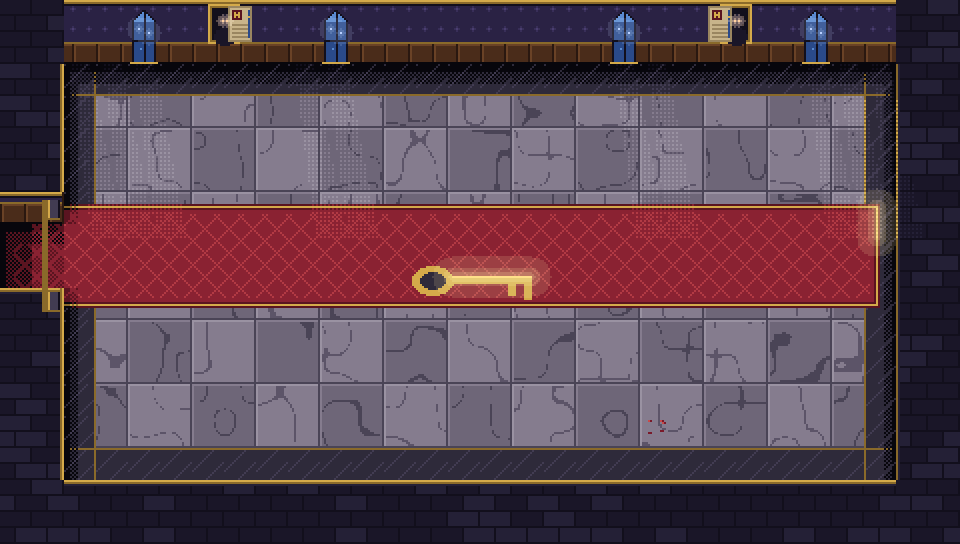
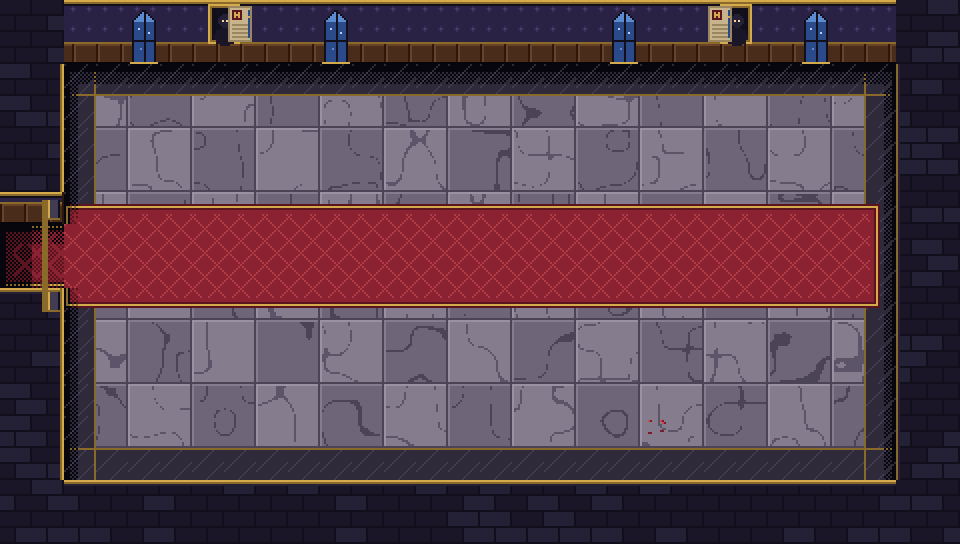
Château : plus de motifs au sol ni d'horloges, tapis croisés, sans halos
- Retire le cadran romain, les sabliers et la clé incrustés au sol
- Les grappes de cases solides du frisbee deviennent des anges voilés
- Tapis : une seule forme en croix, bordure continue au croisement
- Retire les puits de lune tramés et les halos en points

Claude-Session: https://claude.ai/code/session_01KgRZeWCvSQVkTEWoxAiCQs

diff --git a/tools/donjon-peint/chateau.px.js b/tools/donjon-peint/chateau.px.js
@@ -47,14 +47,18 @@ function room(name, MAP, decorFloor, decorTop, opts = {}) {
       if (border) { if (!isWall(tx, ty + 1) && isWall(tx, ty - 1)) c.hline(tx * TS, ty * TS + 15, TS, "Y"); if (!isWall(tx, ty - 1) && isWall(tx, ty + 1)) c.hline(tx * TS, ty * TS, TS, "Y"); if (!isWall(tx + 1, ty) && isWall(tx - 1, ty)) c.vline(tx * TS + 15, ty * TS, TS, "Y"); if (!isWall(tx - 1, ty) && isWall(tx + 1, ty)) c.vline(tx * TS, ty * TS, TS, "Y") }
     })),
     // tapis cramoisi à bordure d'or entre les portes (calculé sur le sol uniquement)
-    layer("tapis", c => (opts.carpets || []).forEach(([x0, y0, x1, y1]) => {
-      for (let y = y0; y < y1; y++) for (let x = x0; x < x1; x++) {
-        if (!isFloor(x >> 4, y >> 4)) continue
-        const ex = Math.min(x - x0, x1 - 1 - x), ey = Math.min(y - y0, y1 - 1 - y), e = Math.min(ex, ey)
+    layer("tapis", c => {
+      const rects = opts.carpets || []; if (!rects.length) return
+      const inC = (x, y) => isFloor(x >> 4, y >> 4) && rects.some(([x0, y0, x1, y1]) => x >= x0 && x < x1 && y >= y0 && y < y1)
+      const edge = (x, y) => { for (let d = 0; d < 6; d++) if (!inC(x + d + 1, y) || !inC(x - d - 1, y) || !inC(x, y + d + 1) || !inC(x, y - d - 1)) return d; return 6 }
+      for (let y = 0; y < CH * TS; y++) for (let x = 0; x < CW * TS; x++) {
+        if (!inC(x, y)) continue
+        const e = edge(x, y), open = x <= 1 || x >= CW * TS - 2 || y <= 1 || y >= CH * TS - 2
         let k = e === 0 ? "R" : e === 1 ? "y" : e === 2 ? "R" : ((x + y) % 12 === 0 || (x - y + 1200) % 12 === 0) && e > 4 ? "e" : "r"
+        if (open && e < 3) k = "r"
         c.px(x, y, k)
       }
-    })),
+    }),
     layer("decor_sol", c => decorFloor && decorFloor(c, S)),
     // gouffres : rebord de marbre brisé au-dessus du noir
     layer("vide", c => each((tx, ty) => {
@@ -119,8 +123,6 @@ function room(name, MAP, decorFloor, decorTop, opts = {}) {
     })),
     layer("passages", { shade: true, density: 0.5 }, c => each((tx, ty) => { if (isFloor(tx, ty) && (ty <= 1 || ty >= 15 || tx <= 1 || tx >= 28)) c.rect(tx * TS, ty * TS, TS, TS, "k") })),
     layer("passages2", { shade: true }, c => each((tx, ty) => { if (isFloor(tx, ty) && (ty === 0 || ty === 16 || tx === 0 || tx === 29)) c.rect(tx * TS, ty * TS, TS, TS, "k") })),
-    // puits de clair de lune tombant des fenêtres gothiques
-    layer("lune", { light: true, density: 0.25 }, c => (opts.windows || []).forEach(x => { for (const X of [x, 480 - x]) if (isWall(X >> 4, 1) && !isWall(X >> 4, 2)) c.poly([X - 5, 32, X + 5, 32, X + 22, 120, X + 6, 120], "k") })),
     // arcs brisés des passages : piédroits de marbre sombre, archivolte dorée, petite horloge à la clé
     layer("portes", c => {
       const jamb = (x, y, h) => { c.rect(x, y, 6, h, "S"); c.vline(x, y, h, "y"); c.vline(x + 5, y, h, "x"); c.hline(x, y + h - 1, 6, "Y") }
@@ -148,13 +150,10 @@ function room(name, MAP, decorFloor, decorTop, opts = {}) {
         const cells = []; const st = [[tx, ty]]; seen.add(tx + ',' + ty)
         while (st.length) { const [x, y] = st.pop(); cells.push([x, y]); for (const [dx, dy] of [[1, 0], [-1, 0], [0, 1], [0, -1]]) { const k = (x + dx) + ',' + (y + dy); if (at(x + dx, y + dy) === "k" && !seen.has(k)) { seen.add(k); st.push([x + dx, y + dy]) } } }
         const x0 = Math.min(...cells.map(p => p[0])) * 16, x1 = (Math.max(...cells.map(p => p[0])) + 1) * 16, y0 = Math.min(...cells.map(p => p[1])) * 16, y1 = (Math.max(...cells.map(p => p[1])) + 1) * 16
-        grandClock(c, (x0 + x1) / 2, y1, x1 - x0)
+        statue(c, (x0 + x1) / 2, y1, x1 - x0)
       })
     }),
     layer("decor_haut", c => decorTop && decorTop(c, S)),
-    glow("o", { r: 10, strength: 0.45, bands: 3 }),
-    glow("z", { r: 3, strength: 0.6, bands: 2 }),
-    glow("l", { r: 6, strength: 0.3, bands: 2 }),
   )
 }
 // ---------- éléments ----------
@@ -163,7 +162,20 @@ function clockFace(c, cx, cy, r, hour = 12) {
   for (let i = 0; i < 12; i++) { const a = i / 12 * 6.283 - 1.5708; c.px(Math.round(cx + Math.cos(a) * (r - 1)), Math.round(cy + Math.sin(a) * (r - 1)), i % 3 ? "P" : "k") }
   const ah = (hour % 12) / 12 * 6.283 - 1.5708; c.line(cx, cy, Math.round(cx + Math.cos(ah) * (r - 3)), Math.round(cy + Math.sin(ah) * (r - 3)), "k"); c.line(cx, cy, Math.round(cx + Math.cos(-1.5708) * (r - 1)), Math.round(cy + Math.sin(-1.5708) * (r - 1)), "k"); c.px(cx, cy, "y")
 }
-// grande horloge à balancier, posée sur les cases solides
+// statue d'ange voilé sur un socle de marbre, posée sur les cases solides
+function statue(c, cx, base, w) {
+  const x0 = cx - w / 2 + 2, x1 = cx + w / 2 - 2
+  c.ellipse(cx, base - 2, w / 2, 5, "k")
+  c.rect(x0, base - 20, x1 - x0, 18, "s"); c.hline(x0, base - 20, x1 - x0, "y"); c.hline(x0, base - 19, x1 - x0, "S"); c.hline(x0, base - 3, x1 - x0, "x"); c.vline(x0, base - 20, 18, "S")
+  c.rect(x0 + 4, base - 14, x1 - x0 - 8, 8, "x"); c.box(x0 + 4, base - 14, x1 - x0 - 8, 8, "Y")
+  c.poly([cx - 9, base - 20, cx - 6, base - 46, cx, base - 52, cx + 6, base - 46, cx + 9, base - 20], "b")          // robe
+  c.line(cx - 6, base - 46, cx - 9, base - 20, "c"); c.line(cx, base - 50, cx - 2, base - 22, "a"); c.line(cx + 4, base - 44, cx + 6, base - 22, "a")
+  c.poly([cx - 6, base - 44, cx - 18, base - 58, cx - 14, base - 36], "a"); c.poly([cx + 6, base - 44, cx + 18, base - 58, cx + 14, base - 36], "a")  // ailes
+  c.line(cx - 6, base - 44, cx - 18, base - 58, "c"); c.line(cx + 6, base - 44, cx + 18, base - 58, "c")
+  c.circ(cx, base - 55, 4, "b"); c.poly([cx - 5, base - 55, cx, base - 61, cx + 5, base - 55, cx + 4, base - 50, cx - 4, base - 50], "a")       // voile
+  c.px(cx - 1, base - 54, "x"); c.px(cx + 1, base - 54, "x"); c.vline(cx - 1, base - 53, 3, "a")                                               // larmes de pierre
+}
+// (ancienne grande horloge, inutilisée)
 function grandClock(c, cx, base, w) {
   const x0 = cx - w / 2 + 4, x1 = cx + w / 2 - 4, top = base - 72
   c.ellipse(cx, base - 2, w / 2, 5, "k")
@@ -204,8 +216,8 @@ const northWall = (c, S, { win = [56, 168], por = [112], ill = [], hue = 0 } = {
 const swordsShield = (c, cx) => { c.line(cx - 9, 4, cx + 9, 22, "b"); c.line(cx + 9, 4, cx - 9, 22, "b"); c.hline(cx - 11, 18, 5, "y"); c.hline(cx + 7, 18, 5, "y"); c.poly([cx - 6, 6, cx + 6, 6, cx + 6, 14, cx, 21, cx - 6, 14], "R"); c.poly([cx - 4, 8, cx + 4, 8, cx + 4, 13, cx, 18, cx - 4, 13], "r"); c.vline(cx, 8, 10, "y"); c.hline(cx - 3, 11, 7, "y") }
 const keyInlay = (c, cx, cy) => { c.ellipse(cx - 24, cy, 10, 7, "y"); c.ellipse(cx - 24, cy, 6, 4, "s"); c.rect(cx - 14, cy - 2, 40, 4, "y"); c.rect(cx + 14, cy + 2, 4, 6, "y"); c.rect(cx + 22, cy + 2, 4, 8, "y"); c.hline(cx - 14, cy - 2, 40, "o") }
 const DECOR = {
-  entry: [c => romanRing(c, 240, 136, 46), (c, S) => northWall(c, S, { win: [56, 168], por: [112] })],
-  blast: [c => { hourglass(c, 120, 136, 12); hourglass(c, 360, 136, 12) }, (c, S) => northWall(c, S, { win: [72], por: [168], ill: [120] })],
+  entry: [c => {}, (c, S) => northWall(c, S, { win: [56, 168], por: [112] })],
+  blast: [c => {}, (c, S) => northWall(c, S, { win: [72], por: [168], ill: [120] })],
   sling: [c => {}, (c, S) => northWall(c, S, { win: [56, 152], ill: [104] })],
   // galerie des portraits : les cloisons des couloirs sont couvertes de tableaux
   gallery: [c => {}, (c, S) => { northWall(c, S, { win: [], por: [56, 104, 152, 200] }); for (const y of [80, 160]) for (let x = 56; x < 440; x += 40) if (S.isWall(x >> 4, y >> 4) && S.isWall((x + 12) >> 4, y >> 4)) portrait(c, x, y + 1, 12, 13, (x / 40 | 0) % 3 === 0 ? 1 : 0) }],
@@ -213,15 +225,15 @@ const DECOR = {
   // grande salle : tapis croisés, enluminures entre les fenêtres
   hall: [c => {}, (c, S) => northWall(c, S, { win: [56, 152], por: [104], ill: [184] })],
   swim: [c => {}, (c, S) => northWall(c, S, { win: [40, 120, 184], por: [80] })],
-  // frisbee : deux grandes horloges à balancier, vitrail au fond de l'alcôve
+  // frisbee : deux anges voilés sur leurs socles, vitrail au fond de l'alcôve
   frisbee: [c => {}, (c, S) => { northWall(c, S, { win: [136], ill: [72] }); windowG(c, 240) }],
   // armurerie : épées croisées sur écus, en paires
   armory: [c => {}, (c, S) => { northWall(c, S, { win: [184], por: [] }); pair(x => swordsShield(c, x), 64); pair(x => swordsShield(c, x), 128) }],
-  // Chevalier Minuit : un immense sablier de marqueterie au centre
-  papa: [c => hourglass(c, 240, 140, 30), (c, S) => northWall(c, S, { win: [56, 168], por: [112], hue: 1 })],
-  bigkey: [c => keyInlay(c, 240, 140), (c, S) => northWall(c, S, { win: [72, 168], ill: [120] })],
+  // Chevalier Minuit : portraits rouges
+  papa: [c => {}, (c, S) => northWall(c, S, { win: [56, 168], por: [112], hue: 1 })],
+  bigkey: [c => {}, (c, S) => northWall(c, S, { win: [72, 168], ill: [120] })],
   // salle du trône : la grande horloge arrêtée sur minuit, le dossier du trône contre le mur, portraits rouges
-  king: [c => romanRing(c, 240, 170, 50), (c, S) => {
+  king: [c => {}, (c, S) => {
       northWall(c, S, { win: [48, 112], por: [80, 176], hue: 1 })
       c.rect(222, 6, 36, 26, "R"); c.box(222, 6, 36, 26, "y"); c.rect(226, 10, 28, 22, "r"); c.poly([222, 6, 240, -2, 258, 6], "y")
       clockFace(c, 240, 16, 9, 12); c.px(240, 2, "o")

diff --git a/README.md b/README.md
@@ -27,7 +27,7 @@ PWA jouable en paysage sur mobile, ordinateur et manette.
 - **Donjon 6, le Château de Minuit** (défilé au sud-ouest du lac, éboulement à faire sauter) : 4 × 3 salles, horloges qui figent la salle, une aile par outil pour les cinq sceaux, le Chevalier Minuit (Papa ensorcelé), le Roi Minuit en 3 phases, le lever du soleil, le retour au camping et le générique.
 
 ## Version 8 : la grande mise à jour
-- **8.15.0** : le Château de Minuit (donjon 6) devient un château gothique peint, lisières droites (option `clean`) : grandes dalles de marbre veiné à bordure de marbre sombre et liseré d'or, tapis cramoisis à bordure dorée entre les portes, grand mur nord tendu de damas au-dessus d'un lambris, fenêtres gothiques à vitraux qui jettent des puits de clair de lune sur le sol, portraits au cadre doré dont les yeux luisent dans le noir, enluminures, tout par paires symétriques ; arcs brisés aux passages avec une petite horloge à la clé, colonnes de marbre à chapiteau doré portant des chandelles, pétales de roses fanées ; le temps partout : cadran en chiffres romains au sol, sabliers de marqueterie, grandes horloges à balancier (les groupes de cases solides de la salle du frisbee), horloge du trône arrêtée sur minuit ; galerie couverte de tableaux, armurerie aux épées croisées sur écus, clé dorée incrustée, bassin de nuit, gouffres au rebord de marbre brisé et pont doré (variante selon `SAVE.castleBridge`) ; l'extracteur de grilles respecte `prison: false`.
+- **8.15.0** : le Château de Minuit (donjon 6) devient un château gothique peint, lisières droites (option `clean`) : grandes dalles de marbre veiné à bordure de marbre sombre et liseré d'or, tapis cramoisis à bordure dorée entre les portes (une seule forme en croix quand ils se croisent, bordure continue), grand mur nord tendu de damas au-dessus d'un lambris, fenêtres gothiques à vitraux, portraits au cadre doré aux yeux qui luisent, enluminures, tout par paires symétriques ; arcs brisés aux passages avec une petite horloge à la clé, colonnes de marbre à chapiteau doré portant des chandelles, pétales de roses fanées ; horloge du trône arrêtée sur minuit au-dessus du dossier ; anges voilés sur socle de marbre dans la salle du frisbee ; galerie couverte de tableaux, armurerie aux épées croisées sur écus, bassin de nuit, gouffres au rebord de marbre brisé et pont doré (variante selon `SAVE.castleBridge`) ; pas de motifs au sol ni d'effets de lumière en points ; l'extracteur de grilles respecte `prison: false`.
 - **8.14.9** : la Tour des artificiers (donjon 5) devient une tour en fête peinte, lisières droites (option `clean`) : briques violet nuit, carrelage en losanges de terre cuite, guirlandes de fanions et lanternes de papier par paires sur le grand mur nord (avec la suie au-dessus), arches rouge et or à étoile aux passages, colonnes rayées coiffées d'étincelles, brûlures en étoile de fusées éclatées entourées de confettis, douilles de pétards ; chaque salle a son détail (étoile d'or à l'entrée, cible de tir dans l'arène, pochoirs de danger à la réserve de pétards, rose des vents au carrefour, mèches brûlées qui convergent dans la salle des torches, rayures des boulets, épées croisées du Chevalier de fer, gamelle et os de Goyave) ; pas de fausses fissures dans le décor, pour ne pas les confondre avec les murs cassables du jeu ; Goyave est tenue par une chaîne entre deux poteaux (option `bind: 'chains'`).
 - **8.14.8** : le Temple englouti (donjon 4) devient un temple aquatique peint, lisières droites (option `clean`) : grès bleu-vert, grand mur nord à frise de vagues sculptée, ligne de crue et algues au pied, reliefs de poissons par paires, dallage détrempé, colonnes cannelées couvertes d'anatifes, passages sculptés (colonnes et linteau à coquille), coulures d'humidité avec une flaque légère au pied ; chaque salle à bassin a deux décors qui suivent le niveau de l'eau (`paintRooms` avec `SAVE.waterLow`) : bassin plein, ou vidé avec son rebord, ses marches et de petites flaques irrégulières au fond ; cascade qui tombe du mur dans le chenal profond, médaillons de mosaïque, coquillages ; le captif est lié par des algues à deux stèles moussues (option `bind: 'kelp'`).
 - **8.14.7** : les Mines des gnomes (donjon 3) deviennent une mine peinte, lisières droites (option `clean` ; dans la salle des poteaux, les bandes de mur au bord du gouffre vont désormais d'un mur à l'autre) : parois en pierres irrégulières, sol de terre battue et de gravier, gros rochers (et d'autres encastrés au pied des parois), étais de bois réguliers le long du mur nord, chaque passage encadré de deux montants et d'un chapeau comme une galerie, gouffres à bord rocheux, rails sur traverses et tréteaux en bois au-dessus du vide, éclats de cristal, lanternes de mineur par paires ; la niche de la caisse devient une alcôve étayée ; chaque salle a son détail (éboulis et pioche à l'entrée, minerai d'or dans l'arène, trappe du puits, rouleau de corde du grappin, toiles et cocons des araignées, veines de cristal, étais de soutènement de la grande salle, terre retournée par la Taupe de fer, paillasse du captif) ; le captif est attaché par des cordes à deux étais (option `bind: 'ropes'`).
